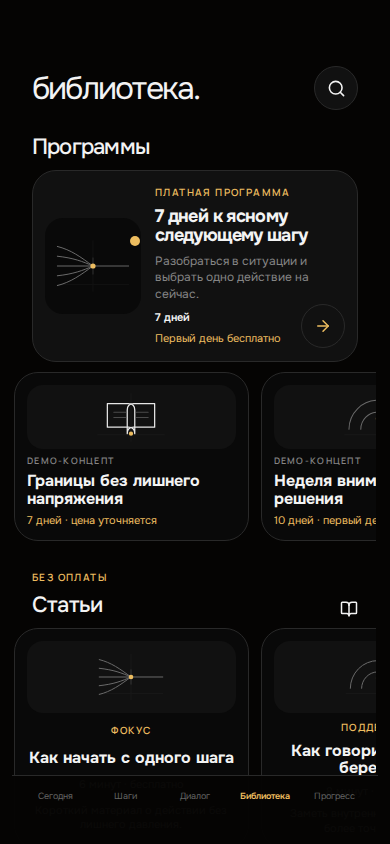
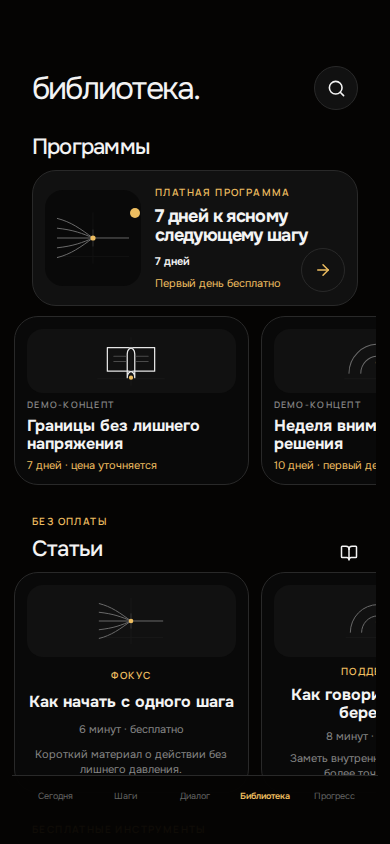
fix(ui-lab): close mobile library purchase overlap

diff --git a/src/components/ui-lab/LibraryProgramsExperiment.css b/src/components/ui-lab/LibraryProgramsExperiment.css
@@ -1095,4 +1095,32 @@
   .mx-library-programs--review .mx-library-programs__offer-meta {
     font-size: 10px;
   }
+  .mx-library-programs--review .mx-library-programs__detail {
+    padding-bottom: 248px;
+  }
+  .mx-library-programs--review .mx-library-programs__detail-art {
+    height: 140px;
+  }
+  .mx-library-programs--review .mx-library-programs__detail-purchase {
+    bottom: -18px;
+    gap: 6px;
+    margin-top: 0;
+    padding: 12px 14px calc(12px + env(safe-area-inset-bottom));
+    border-radius: 20px 20px 0 0;
+    background: rgb(9 9 9 / 0.98);
+  }
+  .mx-library-programs--review .mx-library-programs__detail-purchase > strong {
+    font-size: 14px;
+  }
+  .mx-library-programs--review .mx-library-programs__detail-purchase .mx-library-programs__primary,
+  .mx-library-programs--review
+    .mx-library-programs__detail-purchase
+    .mx-library-programs__secondary {
+    min-height: 44px;
+    padding-inline: 10px;
+    font-size: 12px;
+  }
+  .mx-library-programs--review .mx-library-programs__detail-purchase small {
+    font-size: 10px;
+  }
 }

diff --git a/src/components/ui-lab/LibraryProgramsExperiment.jsx b/src/components/ui-lab/LibraryProgramsExperiment.jsx
@@ -119,7 +119,6 @@ function FeaturedProgram({ onOpen }) {
       <div className="mx-library-programs__featured-copy">
         <span className="mx-library-programs__eyebrow">Платная программа</span>
         <strong>7 дней к ясному следующему шагу</strong>
-        <p>Разобраться в ситуации и выбрать одно действие на сейчас.</p>
         <div className="mx-library-programs__offer-meta">
           <span>7 дней</span>
           <span>Первый день бесплатно</span>
